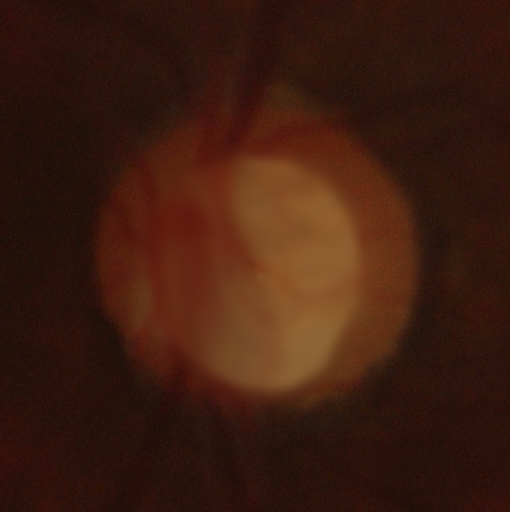
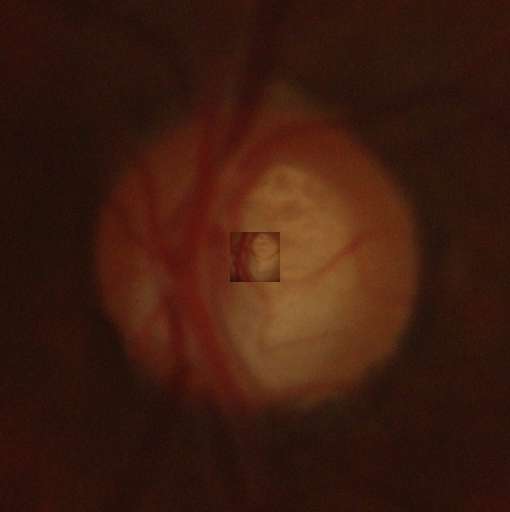
add

diff --git a/segment/demo/circle_out/circle_out.py b/segment/demo/circle_out/circle_out.py
@@ -315,10 +315,53 @@ def circle_out_v6(img, mask, p=1.0):
         mask = Image.fromarray(mask.astype(np.uint8))
 
     return img, mask
+
+
+from PIL import Image
+import numpy as np
+
+
+def localize_cup(mask, value=2):
+    y_indices, x_indices = np.where(mask == value)
+    if len(y_indices) == 0 or len(x_indices) == 0:  # 如果找不到视杯，返回整个图像的坐标
+        return 0, mask.shape[0], 0, mask.shape[1]
+    return min(y_indices), max(y_indices), min(x_indices), max(x_indices)
+
+
+def enhance_cup(img, mask, scale_factor=0.8):
+    # 定位视杯区域
+    ymin, ymax, xmin, xmax = localize_cup(mask)
+
+    # 提取ROI
+    roi_img = img[ymin:ymax, xmin:xmax]
+    roi_mask = mask[ymin:ymax, xmin:xmax]
+
+    # 缩放ROI
+    new_height, new_width = int(roi_img.shape[0] * scale_factor), int(roi_img.shape[1] * scale_factor)
+    resized_roi_img = np.array(Image.fromarray(roi_img).resize((new_width, new_height), Image.BILINEAR))
+    resized_roi_mask = np.array(Image.fromarray(roi_mask).resize((new_width, new_height), Image.NEAREST))
+
+    # 创建输出图像和mask，首先将它们初始化为原始图像和mask的值
+    output_img = np.array(img)
+    output_mask = np.array(mask)
+
+    # 计算插入缩放后ROI的位置
+    y_offset = (ymax - ymin - new_height) // 2
+    x_offset = (xmax - xmin - new_width) // 2
+
+    # 替换原始图像和mask中的ROI
+    output_img[ymin + y_offset:ymin + y_offset + new_height,
+    xmin + x_offset:xmin + x_offset + new_width] = resized_roi_img
+    output_mask[ymin + y_offset:ymin + y_offset + new_height,
+    xmin + x_offset:xmin + x_offset + new_width] = resized_roi_mask
+
+    return output_img, output_mask
+
+
 img = Image.open('./drishtiGS_002.png')
 mask = Image.open('./drishtiGS_002_gt.png')
 # out_img,out_mask = cutout(img,mask)
-out_img,out_mask = circle_out_v6(img=img,mask=mask,p=1.0)
+out_img,out_mask = enhance_cup(img=img,mask=mask)
 out_img.save('out_img.png')
 out_mask.putpalette(cmap)
 out_mask.save('out_mask.png')

diff --git a/main.py b/main.py
@@ -51,6 +51,8 @@ if __name__ == '__main__':
     parser.add_argument('--IoU_loss', type=float, default=-0.1)
     parser.add_argument('--CEpair_loss', type=float, default=-0.1)
     parser.add_argument('--ContrastCrossPixelCorrect_loss', type=float, default=-0.1)
+    parser.add_argument('--ohem_thres', type=float, default=0.5)
+    parser.add_argument('--ohem_weight', type=list, default=[1.0,2.8,3.0])
 
     parser.add_argument('--backbone', type=str, default='b2')
 
@@ -103,6 +105,8 @@ if __name__ == '__main__':
     config.MODEL.scheduler = args.scheduler
     config.MODEL.epochs = args.epochs
     config.MODEL.BD_Contrast_rebalance_loss = args.BD_Contrast_rebalance_loss
+    config.MODEL.loss.params.thres = args.ohem_thres
+    config.MODEL.loss.params.weight = args.ohem_weight
     config.info.seed = args.seed
     config.info.setting = args.d
 
